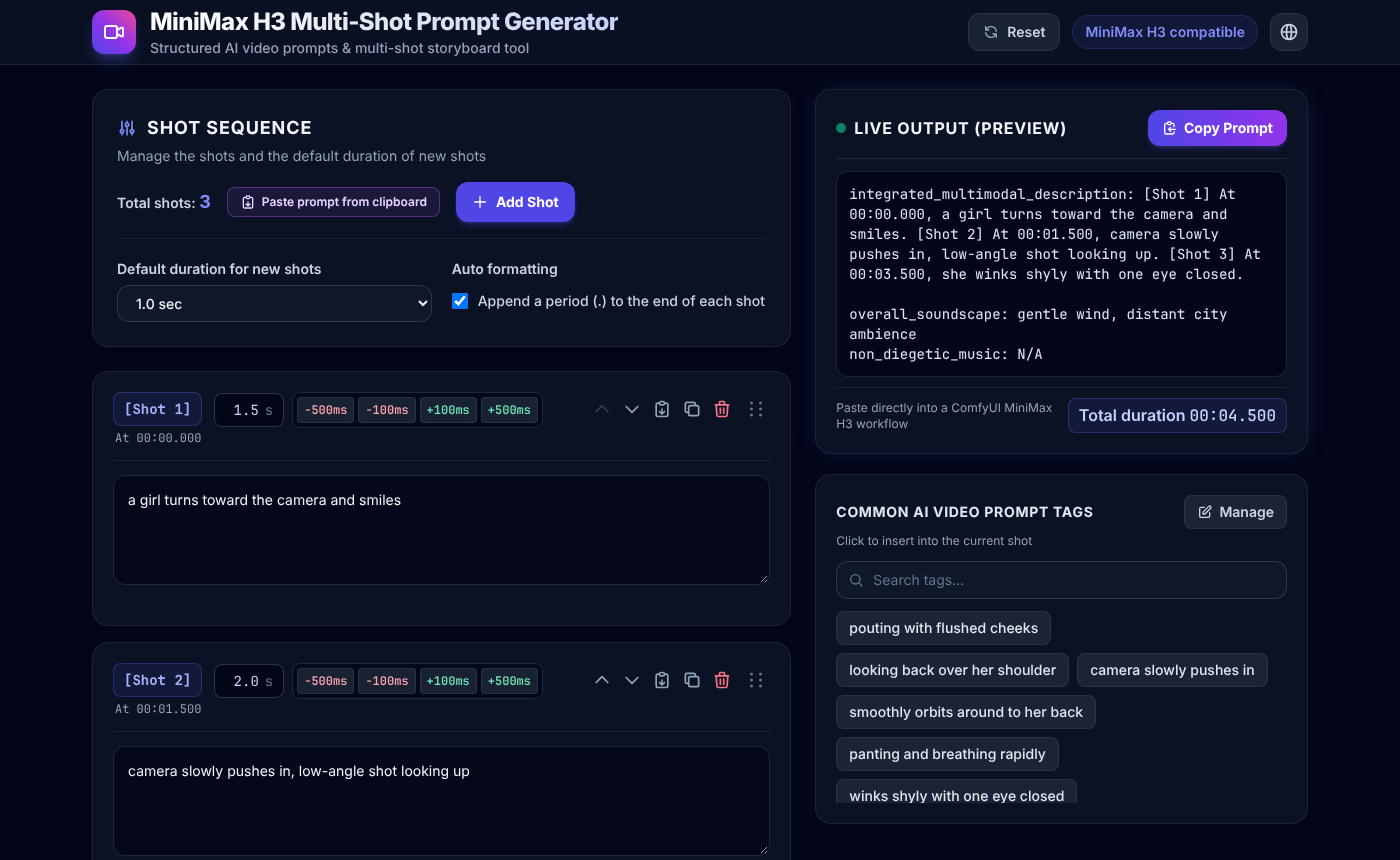
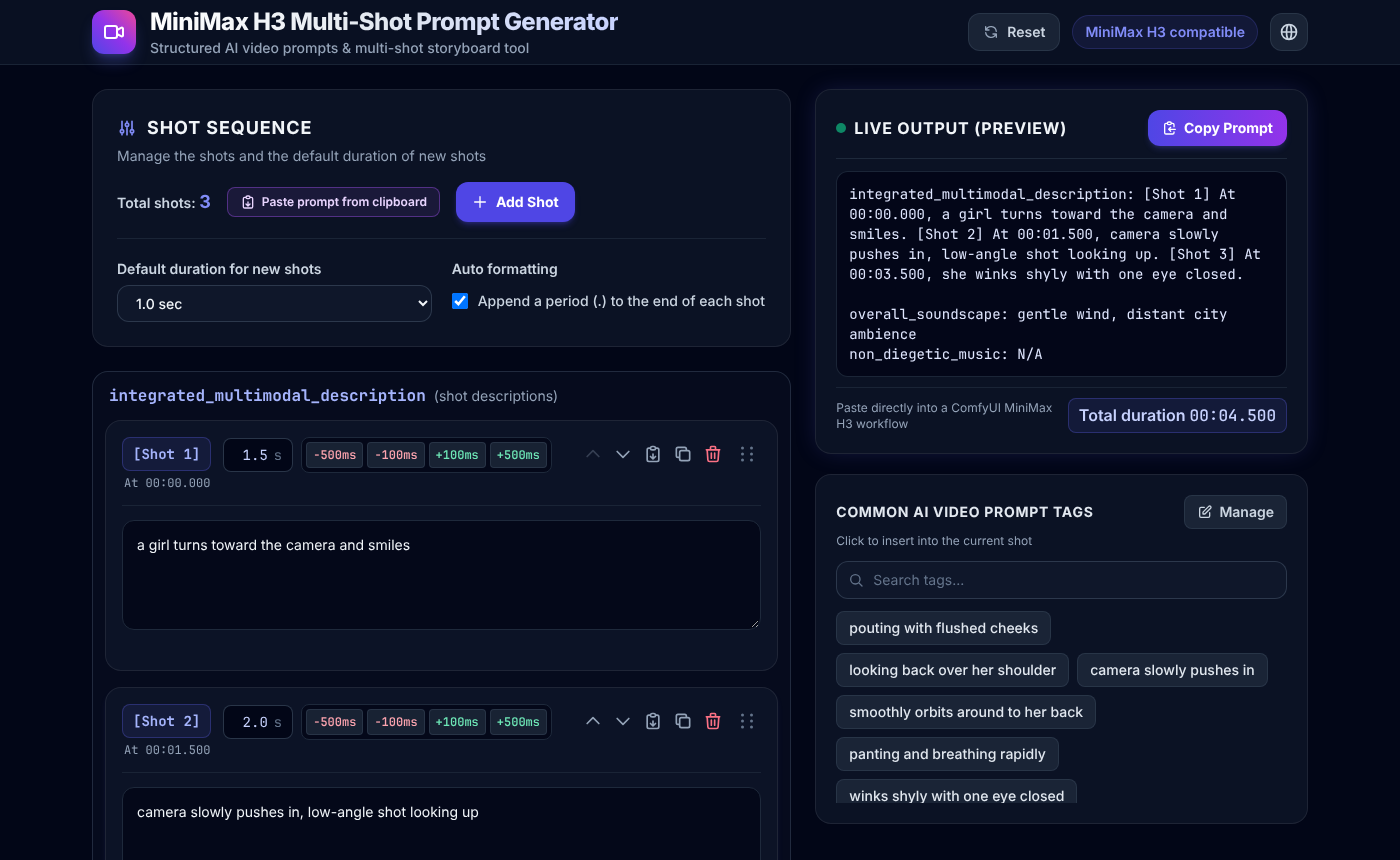
Turn soundscape and music into cards; frame the shot cards
- overall_soundscape and non_diegetic_music are now cards in the same
  style as the shot cards (field-name chip, hint, paste button, text
  box defaulting to N/A), without time or move controls. Line breaks
  become spaces so each stays a single "field: value" line.
- The shot cards and the "add shot" button sit in a bordered frame
  titled integrated_multimodal_description.
- Shot-card and frame padding are slightly smaller so the card header
  still fits on one row (and the actions stay on the [Shot N] row on
  phones).
- The paste flow is shared (pasteCleanText) by shots and audio cards.

Claude-Session: https://claude.ai/code/session_01P8mLr7zYKmqV8YWnxqGtAa

diff --git a/index.html b/index.html
@@ -126,38 +126,54 @@
         </div>
       </div>
 
-      <!-- Shots Container -->
-      <div class="space-y-4" id="shots-list">
-        <!-- Dynamic Shot Cards injected here -->
-      </div>
-
-      <!-- Add New Shot Bottom Button -->
-      <button id="add-shot-bottom-btn" class="w-full py-3.5 border-2 border-dashed border-slate-800 hover:border-indigo-500/50 hover:bg-indigo-500/5 text-slate-300 hover:text-indigo-300 rounded-xl transition-all text-xs sm:text-sm font-bold flex items-center justify-center gap-2 group">
-        <svg class="w-4 h-4 group-hover:scale-110 transition-transform" fill="none" stroke="currentColor" viewBox="0 0 24 24">
-          <path stroke-linecap="round" stroke-linejoin="round" stroke-width="2" d="M12 4v16m8-8H4"></path>
-        </svg>
-        <span data-i18n="addShotBottom">Add the next shot to the sequence</span>
-      </button>
-
-      <!-- Audio / Soundscape Settings Card -->
-      <div class="glass-panel rounded-2xl p-6 border border-slate-800">
-        <h2 class="text-base sm:text-lg font-bold text-slate-100 uppercase tracking-wider mb-4 flex items-center gap-2.5">
-          <svg class="w-5 h-5 text-purple-400" fill="none" stroke="currentColor" viewBox="0 0 24 24">
-            <path stroke-linecap="round" stroke-linejoin="round" stroke-width="2" d="M9 19V6l12-3v13M9 19c0 1.105-1.343 2-3 2s-3-.895-3-2 1.343-2 3-2 3 .895 3 2zm12 0c0 1.105-1.343 2-3 2s-3-.895-3-2 1.343-2 3-2 3 .895 3 2zM9 10l12-3"></path>
-          </svg>
-          <span data-i18n="audioTitle">Soundscape &amp; Music</span>
+      <!-- integrated_multimodal_description: the shot cards, framed with a title -->
+      <div class="rounded-2xl border border-slate-700/60 bg-slate-900/30 p-2 sm:p-3">
+        <h2 class="px-1 mb-3 flex flex-wrap items-baseline gap-x-2 gap-y-0.5">
+          <span class="font-mono text-sm sm:text-base font-bold text-indigo-300 break-all">integrated_multimodal_description</span>
+          <span data-i18n="shotsFieldHint" class="text-xs sm:text-sm text-slate-400">(shot descriptions)</span>
         </h2>
 
-        <div class="grid grid-cols-1 sm:grid-cols-2 gap-5">
-          <div>
-            <label for="soundscape-input" class="block text-xs sm:text-sm font-semibold text-slate-300 mb-1.5">overall_soundscape <span data-i18n="soundscapeHint">(ambient sound)</span></label>
-            <input type="text" id="soundscape-input" class="w-full bg-slate-900 border border-slate-700/80 rounded-xl px-3.5 py-2.5 text-xs sm:text-sm text-slate-100 focus:outline-none focus:ring-2 focus:ring-purple-500 font-mono">
-          </div>
-          <div>
-            <label for="music-input" class="block text-xs sm:text-sm font-semibold text-slate-300 mb-1.5">non_diegetic_music <span data-i18n="musicHint">(background music)</span></label>
-            <input type="text" id="music-input" class="w-full bg-slate-900 border border-slate-700/80 rounded-xl px-3.5 py-2.5 text-xs sm:text-sm text-slate-100 focus:outline-none focus:ring-2 focus:ring-purple-500 font-mono">
-          </div>
+        <!-- Shots Container -->
+        <div class="space-y-4" id="shots-list">
+          <!-- Dynamic Shot Cards injected here -->
         </div>
+
+        <!-- Add New Shot Bottom Button -->
+        <button id="add-shot-bottom-btn" class="mt-4 w-full py-3.5 border-2 border-dashed border-slate-800 hover:border-indigo-500/50 hover:bg-indigo-500/5 text-slate-300 hover:text-indigo-300 rounded-xl transition-all text-xs sm:text-sm font-bold flex items-center justify-center gap-2 group">
+          <svg class="w-4 h-4 group-hover:scale-110 transition-transform" fill="none" stroke="currentColor" viewBox="0 0 24 24">
+            <path stroke-linecap="round" stroke-linejoin="round" stroke-width="2" d="M12 4v16m8-8H4"></path>
+          </svg>
+          <span data-i18n="addShotBottom">Add the next shot to the sequence</span>
+        </button>
+      </div>
+
+      <!-- Soundscape / music cards (same style as the shot cards) -->
+      <div class="audio-card glass-panel rounded-2xl p-4 border border-slate-800">
+        <div class="pb-3.5 mb-3.5 border-b border-slate-800/80 flex items-start justify-between gap-3">
+          <div class="flex flex-col items-start gap-1 min-w-0">
+            <label for="soundscape-input" class="px-2.5 py-1.5 rounded-lg border font-mono text-xs sm:text-sm font-bold bg-purple-500/10 border-purple-500/30 text-purple-300 break-all">overall_soundscape</label>
+            <span data-i18n="soundscapeHint" class="pl-0.5 text-xs text-slate-400">(ambient sound)</span>
+          </div>
+          <button type="button" data-audio-paste="soundscape-input" data-i18n-title="pasteField" data-i18n-aria="pasteField" class="audio-paste-btn shrink-0 p-1.5 lg:p-1 text-slate-400 hover:text-purple-300 hover:bg-slate-800 rounded-lg transition-all" title="Paste clipboard text here" aria-label="Paste clipboard text here">
+            <svg class="w-5 h-5" fill="none" stroke="currentColor" viewBox="0 0 24 24"><path stroke-linecap="round" stroke-linejoin="round" stroke-width="2" d="M9 5H7a2 2 0 00-2 2v12a2 2 0 002 2h10a2 2 0 002-2V7a2 2 0 00-2-2h-2M9 5a2 2 0 002 2h2a2 2 0 002-2M9 5a2 2 0 012-2h2a2 2 0 012 2m-3 7v6m0 0l-3-3m3 3l3-3"></path></svg>
+          </button>
+        </div>
+        <textarea id="soundscape-input" data-audio="overallSoundscape" rows="2" spellcheck="false" data-i18n-placeholder="soundscapePlaceholder" placeholder="e.g. light rain, distant city ambience"
+          class="audio-input w-full block bg-slate-950/80 border border-slate-800 focus:border-purple-500/80 rounded-xl p-3.5 text-xs sm:text-sm text-slate-100 placeholder-slate-500 focus:outline-none focus:ring-1 focus:ring-purple-500/50 resize-y font-sans leading-relaxed" style="min-height: 72px;"></textarea>
+      </div>
+
+      <div class="audio-card glass-panel rounded-2xl p-4 border border-slate-800">
+        <div class="pb-3.5 mb-3.5 border-b border-slate-800/80 flex items-start justify-between gap-3">
+          <div class="flex flex-col items-start gap-1 min-w-0">
+            <label for="music-input" class="px-2.5 py-1.5 rounded-lg border font-mono text-xs sm:text-sm font-bold bg-purple-500/10 border-purple-500/30 text-purple-300 break-all">non_diegetic_music</label>
+            <span data-i18n="musicHint" class="pl-0.5 text-xs text-slate-400">(background music)</span>
+          </div>
+          <button type="button" data-audio-paste="music-input" data-i18n-title="pasteField" data-i18n-aria="pasteField" class="audio-paste-btn shrink-0 p-1.5 lg:p-1 text-slate-400 hover:text-purple-300 hover:bg-slate-800 rounded-lg transition-all" title="Paste clipboard text here" aria-label="Paste clipboard text here">
+            <svg class="w-5 h-5" fill="none" stroke="currentColor" viewBox="0 0 24 24"><path stroke-linecap="round" stroke-linejoin="round" stroke-width="2" d="M9 5H7a2 2 0 00-2 2v12a2 2 0 002 2h10a2 2 0 002-2V7a2 2 0 00-2-2h-2M9 5a2 2 0 002 2h2a2 2 0 002-2M9 5a2 2 0 012-2h2a2 2 0 012 2m-3 7v6m0 0l-3-3m3 3l3-3"></path></svg>
+          </button>
+        </div>
+        <textarea id="music-input" data-audio="nonDiegeticMusic" rows="2" spellcheck="false" data-i18n-placeholder="musicPlaceholder" placeholder="e.g. soft piano"
+          class="audio-input w-full block bg-slate-950/80 border border-slate-800 focus:border-purple-500/80 rounded-xl p-3.5 text-xs sm:text-sm text-slate-100 placeholder-slate-500 focus:outline-none focus:ring-1 focus:ring-purple-500/50 resize-y font-sans leading-relaxed" style="min-height: 72px;"></textarea>
       </div>
 
     </section>

diff --git a/js/paste.js b/js/paste.js
@@ -7,9 +7,10 @@
 // modal with a textarea lets the user paste by hand. When the cards already
 // hold content, showConfirm() asks before replacing them.
 //
-// Each shot card also has a paste button (pasteIntoShot): the clipboard text,
-// cleaned by cleanShotText(), replaces that card's description, asking first
-// when the card already has text.
+// Each shot card also has a paste button (pasteIntoShot), and so do the
+// soundscape / music cards (pasteIntoAudio): the clipboard text, cleaned by
+// cleanShotText(), replaces that text, asking first when there is text
+// already (N/A counts as empty).
 // =============================================================================
 
 // Clipboard text, or null when the browser refuses to read it.
@@ -69,31 +70,66 @@ async function pasteFromClipboard() {
   if ((await importPromptText(text)) === 'none') showToast(t('pasteNone'));
 }
 
-// Replace one shot's description with the (cleaned) clipboard text.
-async function pasteIntoShot(index) {
-  const shot = state.shots[index];
-  const textarea = () => shotsListEl.querySelectorAll('textarea.shot-input')[index];
+// Read the clipboard, clean it with cleanShotText() and hand it to apply().
+// Asks first when `hasText`; a blocked clipboard focuses `textarea` instead.
+async function pasteCleanText({ textarea, hasText, confirmTitle, confirmMessage, apply }) {
   const raw = await readClipboardText();
   if (raw === null) {
-    // Blocked: let the user paste by hand into the card's text box.
-    if (textarea()) textarea().focus();
+    // Blocked: let the user paste by hand into the text box.
+    if (textarea) textarea.focus();
     showToast(t('pasteShotBlocked'));
-    return;
+    return false;
   }
   const text = cleanShotText(raw);
   if (!text) {
     showToast(t('pasteShotEmpty'));
-    return;
+    return false;
   }
-  if (shot.description.trim()) {
-    const ok = await showConfirm({ title: t('confirmShotTitle'), message: t('confirmShotReplace'), ok: t('replace') });
-    if (!ok || state.shots[index] !== shot) return; // cancelled, or the cards changed meanwhile
+  if (hasText) {
+    const ok = await showConfirm({ title: confirmTitle, message: confirmMessage, ok: t('replace') });
+    if (!ok) return false;
   }
-  shot.description = text;
-  if (textarea()) textarea().value = text;
-  setActiveShot(index);
-  refreshDerived();
-  showToast(t('toastShotPasted'));
+  return apply(text);
+}
+
+// Replace one shot's description with the (cleaned) clipboard text.
+async function pasteIntoShot(index) {
+  const shot = state.shots[index];
+  const textarea = () => shotsListEl.querySelectorAll('textarea.shot-input')[index];
+  await pasteCleanText({
+    textarea: textarea(),
+    hasText: shot.description.trim() !== '',
+    confirmTitle: t('confirmShotTitle'),
+    confirmMessage: t('confirmShotReplace'),
+    apply: (text) => {
+      if (state.shots[index] !== shot) return false; // the cards changed meanwhile
+      shot.description = text;
+      if (textarea()) textarea().value = text;
+      setActiveShot(index);
+      refreshDerived();
+      showToast(t('toastShotPasted'));
+      return true;
+    },
+  });
+}
+
+// Replace the soundscape or music text (N/A counts as empty).
+async function pasteIntoAudio(textarea) {
+  const field = textarea.dataset.audio;
+  const current = state[field].trim();
+  await pasteCleanText({
+    textarea,
+    hasText: current !== '' && current !== DEFAULT_AUDIO,
+    confirmTitle: t('confirmFieldTitle'),
+    confirmMessage: t('confirmFieldReplace'),
+    apply: (text) => {
+      state[field] = text;
+      textarea.value = text;
+      refreshDerived();
+      showToast(t('toastFieldPasted'));
+      return true;
+    },
+  });
 }
 
 async function importFromPasteModal() {
@@ -113,4 +149,7 @@ function initPaste() {
   $('paste-modal-close').addEventListener('click', closePasteModal);
   $('paste-modal-backdrop').addEventListener('click', closePasteModal);
   pasteModalText.addEventListener('input', () => pasteModalError.classList.add('hidden'));
+  document.querySelectorAll('[data-audio-paste]').forEach(btn => {
+    btn.addEventListener('click', () => pasteIntoAudio($(btn.dataset.audioPaste)));
+  });
 }

diff --git a/tests/e2e/app.test.js b/tests/e2e/app.test.js
@@ -262,6 +262,35 @@ test('shot paste button: cleans the text and asks before overwriting', async () 
   assert.equal((await descriptionValues(page))[0], 'a girl turns around slowly');
 });
 
+test('soundscape / music cards: N/A by default, one line, paste button', async () => {
+  const { page } = await open({ permissions: ['clipboard-read', 'clipboard-write'] });
+  assert.equal(await page.inputValue('#soundscape-input'), 'N/A');
+  assert.equal(await page.inputValue('#music-input'), 'N/A');
+  assert.equal(await page.locator('.audio-card').count(), 2);
+  assert.equal(await page.locator('.audio-card .dur-input, .audio-card .move-shot-btn, .audio-card .time-adjust-btn').count(), 0);
+
+  // line breaks typed into the box become spaces, so the output stays "field: value"
+  await page.fill('#soundscape-input', 'light rain\nthunder');
+  assert.equal(await page.inputValue('#soundscape-input'), 'light rain thunder');
+  assert.ok((await output(page)).endsWith('overall_soundscape: light rain thunder\nnon_diegetic_music: N/A'));
+
+  // paste into music: N/A counts as empty, so no question
+  await page.evaluate(() => navigator.clipboard.writeText('  soft\n piano  '));
+  await page.click('[data-audio-paste="music-input"]');
+  await page.waitForFunction(() => document.querySelector('#music-input').value === 'soft piano');
+  assert.equal(await page.locator('#confirm-modal').isVisible(), false);
+  assert.ok((await output(page)).endsWith('non_diegetic_music: soft piano'));
+
+  // soundscape has text: asks first
+  await page.click('[data-audio-paste="soundscape-input"]');
+  await page.locator('#confirm-modal').waitFor({ state: 'visible' });
+  await page.click('#confirm-cancel');
+  assert.equal(await page.inputValue('#soundscape-input'), 'light rain thunder');
+  await page.click('[data-audio-paste="soundscape-input"]');
+  await page.click('#confirm-ok');
+  await page.waitForFunction(() => document.querySelector('#soundscape-input').value === 'soft piano');
+});
+
 test('shot paste button: blocked clipboard focuses the text box', async () => {
   const { page } = await open();
   await page.evaluate(() => { navigator.clipboard.readText = () => Promise.reject(new Error('denied')); });
@@ -411,6 +440,12 @@ test('layout: no horizontal scroll, single-row card header, duration box fits', 
       const where = `${lang} @ ${viewport.width}px`;
       assert.equal(await page.evaluate(() => document.documentElement.scrollWidth), viewport.width, `horizontal scroll: ${where}`);
 
+      if (viewport.width < 640) {
+        // phones: action buttons share the [Shot N] row
+        const [labelTop, actionsTop] = await page.evaluate(() => ['.shot-label', '.shot-actions']
+          .map(sel => document.querySelector(sel).getBoundingClientRect().top));
+        assert.ok(Math.abs(labelTop - actionsTop) < 6, `actions not on the [Shot N] row: ${where}`);
+      }
       if (viewport.width >= 1024) {
         // a filled shot shows its start time ("At 00:00.000") in the left column
         await page.locator('textarea.shot-input').nth(0).fill('a girl smiles');

diff --git a/js/i18n.js b/js/i18n.js
@@ -33,7 +33,13 @@ const MESSAGES = {
   autoFormat: { en: 'Auto formatting', 'zh-Hant': '自動格式優化', ja: '自動フォーマット' },
   autoPeriodLabel: { en: 'Append a period (.) to the end of each shot', 'zh-Hant': '自動在每個 Shot 結尾補上句號 (.)', ja: '各ショットの末尾にピリオド (.) を自動追加' },
   addShotBottom: { en: 'Add the next shot to the sequence', 'zh-Hant': '新增下一個 Shot 到序列', ja: '次のショットをシーケンスに追加' },
-  audioTitle: { en: 'Soundscape & Music', 'zh-Hant': '聲音與音樂設定 (Soundscape & Music)', ja: 'サウンド＆音楽設定' },
+  shotsFieldHint: { en: '(shot descriptions)', 'zh-Hant': '(鏡頭描述)', ja: '(ショットの説明)' },
+  soundscapePlaceholder: { en: 'e.g. light rain, distant city ambience (N/A if none)', 'zh-Hant': '例如 light rain, distant city ambience（沒有就填 N/A）', ja: '例：light rain, distant city ambience（なければ N/A）' },
+  musicPlaceholder: { en: 'e.g. soft piano (N/A if none)', 'zh-Hant': '例如 soft piano（沒有就填 N/A）', ja: '例：soft piano（なければ N/A）' },
+  pasteField: { en: 'Paste clipboard text here', 'zh-Hant': '從剪貼簿貼上文字', ja: 'クリップボードのテキストを貼り付け' },
+  confirmFieldTitle: { en: 'Replace this text?', 'zh-Hant': '要取代目前的內容嗎？', ja: 'この内容を置き換えますか？' },
+  confirmFieldReplace: { en: 'The current text will be replaced by the clipboard text.', 'zh-Hant': '目前的內容將被剪貼簿的文字取代。', ja: '現在の内容は、クリップボードのテキストで置き換えられます。' },
+  toastFieldPasted: { en: 'Pasted', 'zh-Hant': '已貼上', ja: '貼り付けました' },
   soundscapeHint: { en: '(ambient sound)', 'zh-Hant': '(環境音效)', ja: '(環境音)' },
   musicHint: { en: '(background music)', 'zh-Hant': '(背景音樂)', ja: '(BGM)' },
   previewTitle: { en: 'Live Output (Preview)', 'zh-Hant': '即時整合輸出 (Preview)', ja: 'リアルタイム出力 (Preview)' },

diff --git a/js/shots.js b/js/shots.js
@@ -66,7 +66,7 @@ function render() {
   state.shots.forEach((shot, index) => {
     const card = document.createElement('div');
     card.dataset.index = index;
-    card.className = `shot-card glass-panel rounded-2xl px-5 pt-5 pb-3 border transition-all duration-200 ${
+    card.className = `shot-card glass-panel rounded-2xl px-4 pt-4 pb-3 border transition-all duration-200 ${
       state.activeShotIndex === index
         ? 'border-indigo-500/80 bg-slate-900/90 shadow-md shadow-indigo-500/10'
         : 'border-slate-800 hover:border-slate-700'
@@ -74,7 +74,7 @@ function render() {
 
     card.innerHTML = `
       <div class="pb-3.5 mb-3.5 border-b border-slate-800/80">
-        <div class="shot-header flex flex-wrap items-start justify-between gap-x-3 gap-y-2">
+        <div class="shot-header flex flex-wrap items-start justify-between gap-x-2 sm:gap-x-3 gap-y-2">
           <!-- Top left: [Shot N] label with its start time underneath -->
           <div class="shot-title flex flex-col items-start gap-1 shrink-0">
             <span class="${LABEL_BASE}"></span>
@@ -118,7 +118,7 @@ function render() {
                 ${icon('trash', ACTION_ICON)}
               </button>
             ` : ''}
-            <button type="button" class="drag-handle ml-1 p-1.5 lg:p-1 text-slate-500 hover:text-indigo-300 cursor-grab active:cursor-grabbing rounded-lg transition-colors" title="${escapeHtml(t('dragHandle'))}" aria-label="${escapeHtml(t('dragHandle'))}">
+            <button type="button" class="drag-handle sm:ml-1 p-1.5 lg:p-1 text-slate-500 hover:text-indigo-300 cursor-grab active:cursor-grabbing rounded-lg transition-colors" title="${escapeHtml(t('dragHandle'))}" aria-label="${escapeHtml(t('dragHandle'))}">
               ${icon('drag', ACTION_ICON)}
             </button>
           </div>

diff --git a/js/app.js b/js/app.js
@@ -147,14 +147,14 @@ function initGlobalControls() {
   resetBtn.addEventListener('click', resetSample);
   copyBtn.addEventListener('click', copyPromptToClipboard);
 
-  soundscapeInput.addEventListener('input', (e) => {
-    state.overallSoundscape = e.target.value;
-    refreshDerived();
-  });
-
-  musicInput.addEventListener('input', (e) => {
-    state.nonDiegeticMusic = e.target.value;
-    refreshDerived();
+  // Soundscape / music cards: one line of text each (line breaks become
+  // spaces so the prompt keeps its "field: value" lines).
+  [soundscapeInput, musicInput].forEach(input => {
+    input.addEventListener('input', () => {
+      if (/[\r\n]/.test(input.value)) input.value = input.value.replace(/\s*[\r\n]+\s*/g, ' ');
+      state[input.dataset.audio] = input.value;
+      refreshDerived();
+    });
   });
 
   timeStepSelect.addEventListener('change', (e) => {

diff --git a/CLAUDE.md b/CLAUDE.md
@@ -6,7 +6,7 @@
 
 | 檔案 | 負責 | 常見修改 |
 | --- | --- | --- |
-| `index.html` | 靜態畫面結構、彈出視窗、`<script>` 載入順序 | 新增區塊／按鈕／輸入欄 |
+| `index.html` | 靜態畫面結構（鏡頭卡片外有標題為 `integrated_multimodal_description` 的外框；下方 `overall_soundscape`／`non_diegetic_music` 兩張同風格卡片，`data-audio` 對應 `state` 欄位）、彈出視窗、`<script>` 載入順序 | 新增區塊／按鈕／輸入欄 |
 | `css/style.css` | Tailwind 以外的少量自訂樣式 | 捲軸、玻璃效果、拖曳狀態 |
 | `js/tailwind-config.js` | Tailwind CDN 設定（字體、色票） | 主題色、字體 |
 | `js/core.js` | **純邏輯**：時間戳記與持續時間（`formatDuration`／`parseDuration`／`normalizeDuration`／`shiftDuration`）、鏡頭增刪複製移動（回傳 `{ shots, active }`；持續時間跟著卡片走）、輸出格式 `buildPrompt()` 與反向解析 `parsePrompt()`、驗證與開始時間 `analyzeShots()`、總長度 `totalDuration()`、預設值、標籤資料處理、`DEFAULT_TAGS` | 輸出格式、驗證規則、鏡頭操作、標籤匯入匯出 |
@@ -14,8 +14,8 @@
 | `js/state.js` | `state`、DOM 元素參照、localStorage 讀寫、`showToast()`、確認視窗 `showConfirm()`（取代 `window.confirm`）、JS 產生的 HTML 用的圖示 `ICONS`／`icon()` | 新增狀態欄位、DOM 參照或圖示 |
 | `js/shots.js` | 鏡頭卡片 HTML（左上 `[Shot N]` 與下方小字開始時間 `At …`；持續時間框寬 `w-[4ch]`，離開時用 `normalizeDuration()` 整理；右上操作按鈕 `ACTION_ICON`，刪除為紅色、最右是拖曳把手；手機上操作按鈕與 `[Shot N]` 同列、持續時間另起一列；描述框全寬，下方固定一行 `.shot-msg` 放紅字錯誤／黃字空白提醒，不影響卡片高度）、`render()` / `refreshDerived()`（含 PREVIEW 的總長度）、增刪複製移動、拖曳排序 | 卡片外觀與操作 |
 | `js/tags.js` | 標籤列表、標籤管理視窗 | 標籤 UI |
-| `js/paste.js` | 「從剪貼簿貼上 Prompt」：讀剪貼簿（被擋時開貼上視窗）、有內容時先確認再取代卡片；卡片的貼上按鈕 `pasteIntoShot()`：用 `cleanShotText()` 整理換行與空白後取代該鏡頭描述，已有文字時先確認（被擋時聚焦文字框請使用者 Ctrl+V） | 貼上／匯入流程 |
-| `js/app.js` | 語言切換、複製、全域控制、啟動流程 | 頂部按鈕、全域設定 |
+| `js/paste.js` | 「從剪貼簿貼上 Prompt」：讀剪貼簿（被擋時開貼上視窗）、有內容時先確認再取代卡片；卡片的貼上按鈕 `pasteIntoShot()`／音效卡片 `pasteIntoAudio()`（共用 `pasteCleanText()`）：用 `cleanShotText()` 整理換行與空白後取代內容，已有文字時先確認（`N/A` 算空白；被擋時聚焦文字框請使用者 Ctrl+V） | 貼上／匯入流程 |
+| `js/app.js` | 語言切換、複製、全域控制（音效卡片輸入時換行轉空格，維持一行）、啟動流程 | 頂部按鈕、全域設定 |
 | `tests/unit/*.test.js` | Node 單元測試（`core.js`、`i18n.js` 一致性） | 改 `core.js` 時同步補測試 |
 | `tests/e2e/app.test.js` | Playwright 瀏覽器測試 | 新增 UI 功能時補測試 |
 | `tests/e2e/screenshots.js` | 主要畫面截圖 | 新增畫面狀態時加一筆 |
